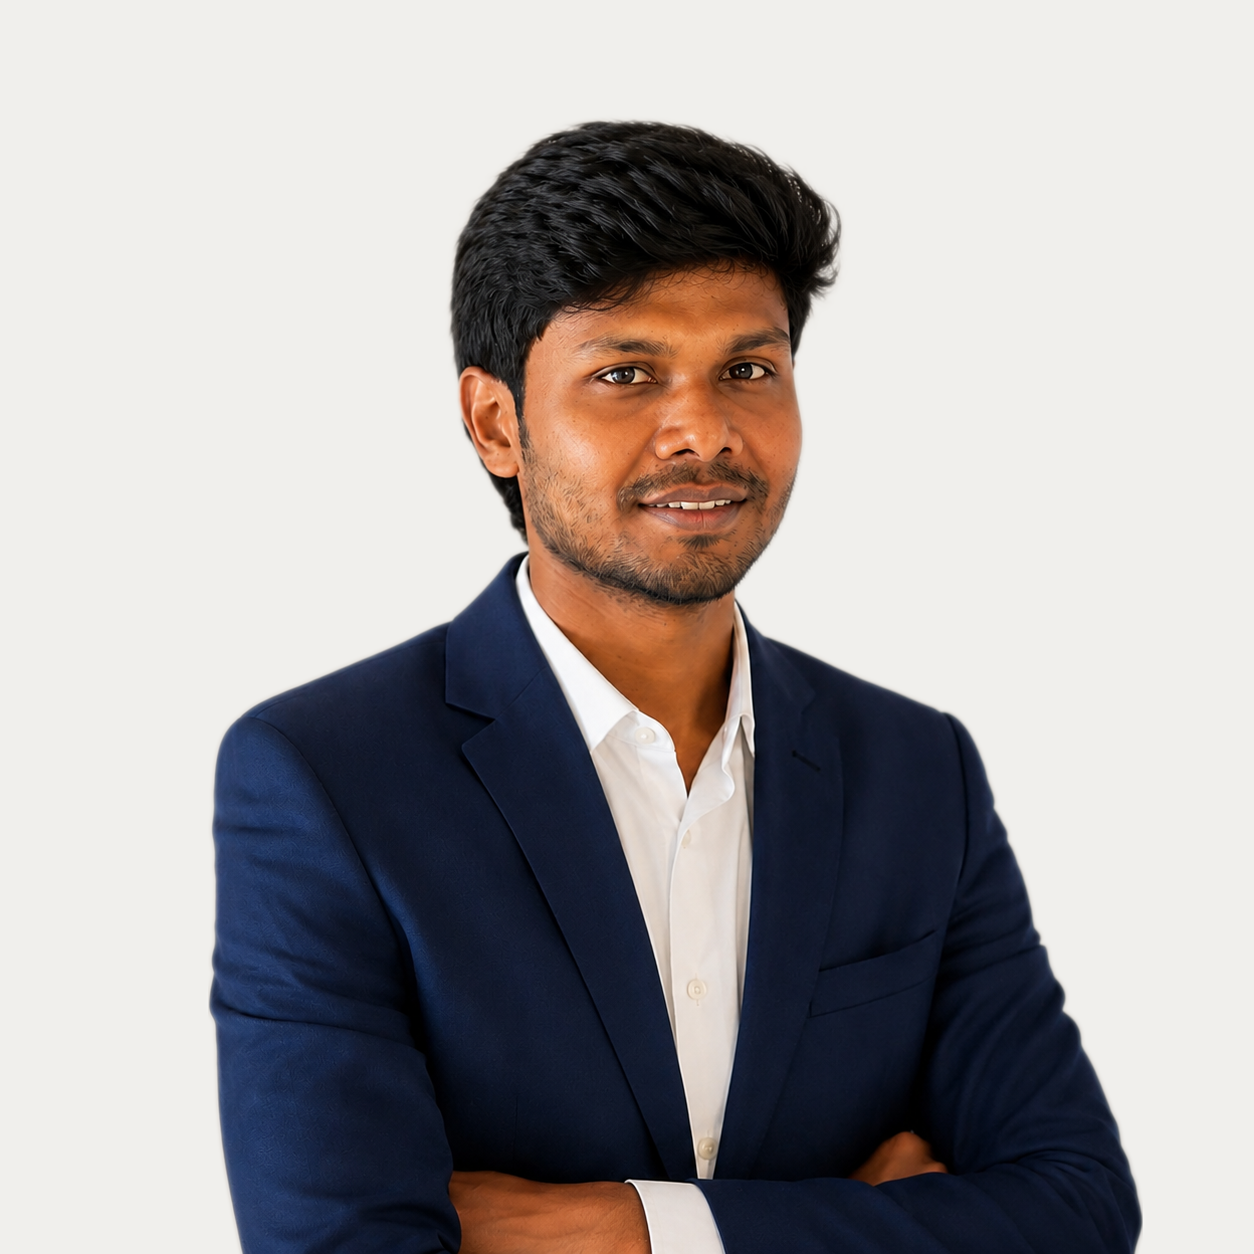
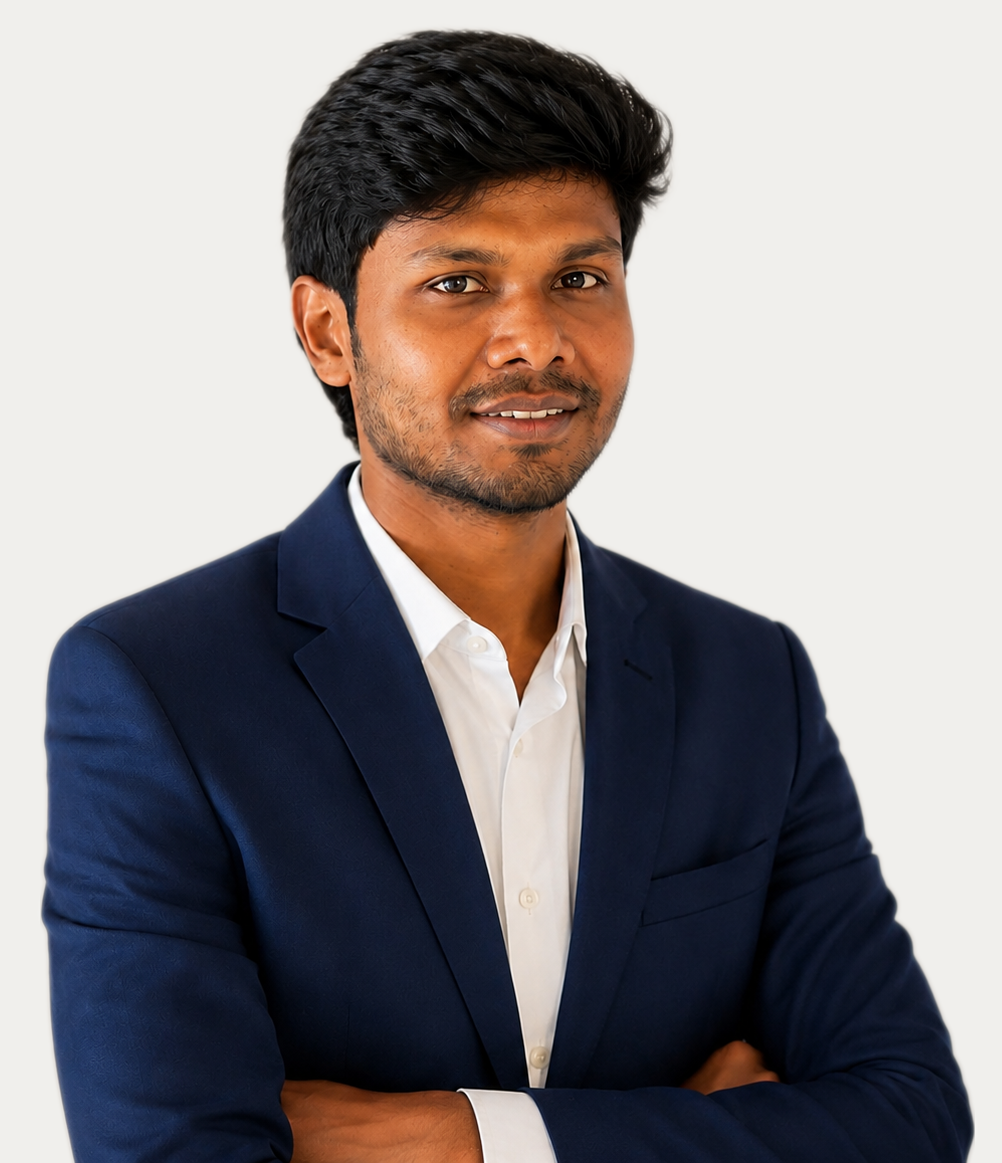
Update Susshinder's photo to the newer version
A different photo landed at public/susshinder.png after the previous
commit shipped — 1002x1163 and fully opaque (no transparency to flatten
this time, unlike the earlier upload). The three <img> tags referencing
it (the /cmo/ hero, the /leadership/ team card, and the home page
teaser) had 1254x1254 hardcoded from the old file; updated all three to
the new file's actual dimensions.

Verified: typecheck clean, build clean, 27 tests pass. Checked the /cmo/
hero and the /leadership/ team grid at 1440 — renders cleanly, no
stretching or cropping artifacts from the dimension mismatch.

diff --git a/app/(site)/cmo/page.tsx b/app/(site)/cmo/page.tsx
@@ -110,8 +110,8 @@ export default function Page() {
                 <img
                   src="/susshinder.png"
                   alt="Susshinder S.A., Chief Marketing Officer of Grow Spark Consulting"
-                  width={1254}
-                  height={1254}
+                  width={1002}
+                  height={1163}
                   loading="lazy"
                   decoding="async"
                   className="absolute inset-0 w-full h-full object-cover object-top"

diff --git a/components/sections/Leadership.tsx b/components/sections/Leadership.tsx
@@ -83,8 +83,8 @@ export default function Leadership() {
                 <img
                   src="/susshinder.png"
                   alt="Susshinder S.A., Chief Marketing Officer of Grow Spark Consulting"
-                  width={1254}
-                  height={1254}
+                  width={1002}
+                  height={1163}
                   loading="lazy"
                   decoding="async"
                   className="w-full h-full object-cover object-top"

diff --git a/app/(site)/leadership/page.tsx b/app/(site)/leadership/page.tsx
@@ -376,8 +376,8 @@ export default function Page() {
                 <img
                   src="/susshinder.png"
                   alt="Susshinder S.A., Chief Marketing Officer of Grow Spark Consulting"
-                  width={1254}
-                  height={1254}
+                  width={1002}
+                  height={1163}
                   loading="lazy"
                   decoding="async"
                   className="w-full h-full object-cover object-top"
